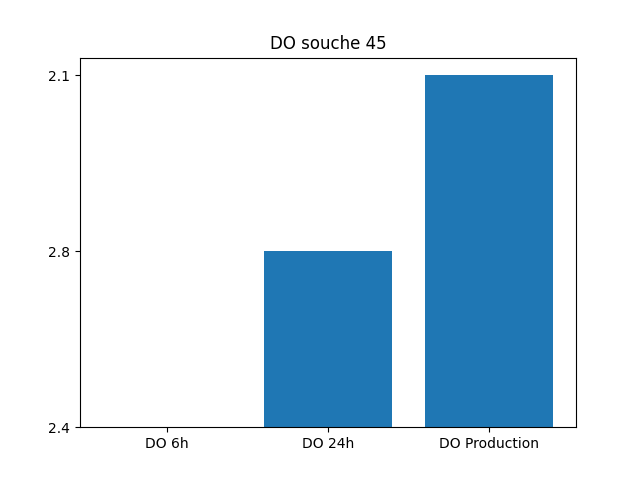
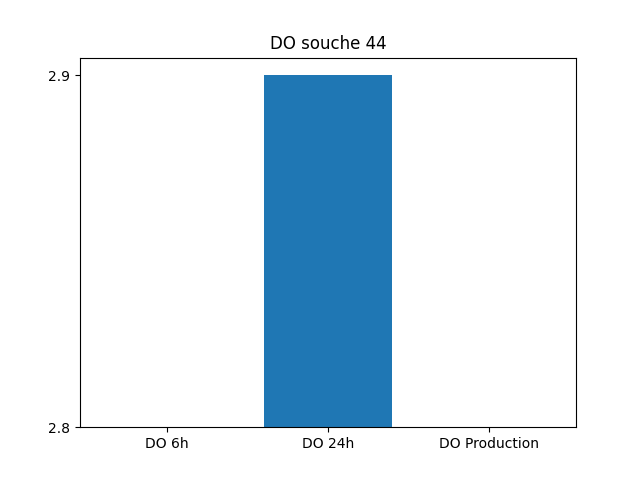
barplot ok

diff --git a/src/AnaVi/Script_génération_carte/main.py b/src/AnaVi/Script_génération_carte/main.py
@@ -3,7 +3,7 @@
 from optparse import OptionParser
 
 from AnaVi.Script_génération_carte.Crea_list_Pheno import csv_tablo_Pheno
-from Link_svg import readmap
+from Link_html import readmap
 from dictionary_mutation import fillingDict
 from Histogramme import barplot
 
@@ -37,4 +37,4 @@ import matplot
 # tableECnumber = input("EC number array pathway : ")
 # nStrain = input("Strain number : ")
 # mapInput = input("Map pathway : ")
-main('tablGeno.csv','tablECnum.csv','45','carte_metabolique_pentose-arginine.svg')
+main('tablGeno.csv','tablECnum.csv','44','carte_metabolique_pentose-arginine.svg')
